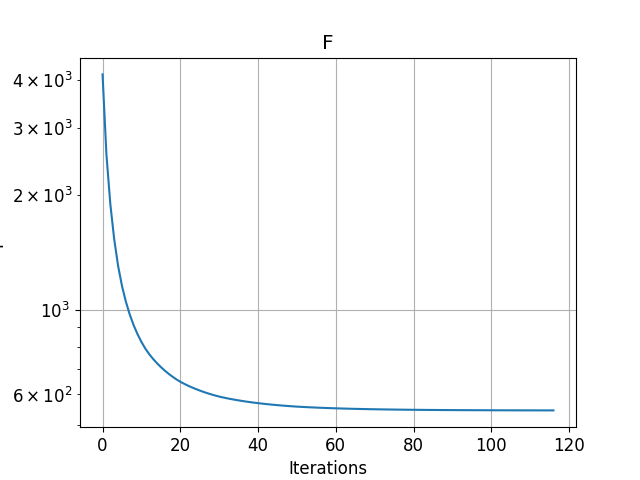
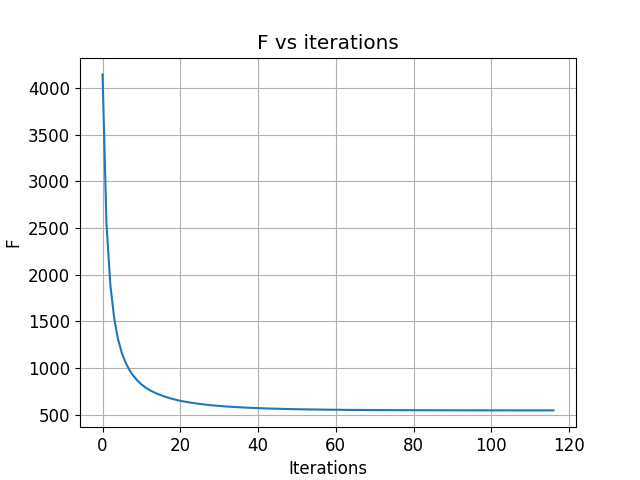
.

diff --git a/MTF073/T1/Martin_codeFunctions.py b/MTF073/T1/Martin_codeFunctions.py
@@ -466,7 +466,7 @@ def correctBoundaries(T,
 
 def calcNormalizedResiduals(res, glob_imbal_plot,
                             nI, nJ, explCorrIter, T, \
-                            aP, aE, aW, aN, aS, Su, Sp, F_data=1):
+                            aP, aE, aW, aN, aS, Su, Sp, F_data=1, T_data=1):
     # Calculate and print normalized residuals, and sane 
     # Only change arrays in first row of argument list!
     # Normalize as shown in lecture notes, using:
@@ -559,6 +559,11 @@ def calcNormalizedResiduals(res, glob_imbal_plot,
     # Calculate the global imbalance
     glob_imbal = abs((Din - Dout + Sin - Sout)/(Din + Sin))
     glob_imbal_plot.append(glob_imbal)
+    
+    i_selected = 10
+    j_selected = 10
+    T_value = T[i_selected, j_selected]
+    T_data.append(T_value)
 
     
 def createDefaultPlots(
@@ -737,7 +742,7 @@ def createDefaultPlots(
 
 def createAdditionalPlots(nI, nJ, pointX, pointY, nodeX, nodeY,
                        L, H, T, k,
-                       explCorrIter, res, glob_imbal_plot, caseID, F_data):
+                       explCorrIter, res, glob_imbal_plot, caseID, F_data, T_data):
     # ADD CODE HERE IF NECESSARY
     # Also add needed arguments to the function - and then also add those
     # arguments for the same function in the main code.
@@ -750,13 +755,27 @@ def createAdditionalPlots(nI, nJ, pointX, pointY, nodeX, nodeY,
     """
     # Plot F
     plt.figure()
-    plt.title('F')
+    plt.title('F vs iterations')
     plt.xlabel('Iterations')
     plt.ylabel('F')
     resLength = np.arange(0,len(res),1)
     plt.plot(resLength, F_data)
     plt.grid()
-    plt.yscale('log')
+    # plt.yscale('log')
     plt.savefig('Figures/Case_'+str(caseID)+'_FConvergence_results.png')
     plt.show()
+    
+    # Plot T
+    plt.figure()
+    plt.title('Temperature vs iterations')
+    plt.xlabel('Iterations')
+    plt.ylabel('T')
+    resLength = np.arange(0,len(res),1)
+    plt.plot(resLength, T_data)
+    plt.grid()
+    # plt.yscale('log')
+    plt.savefig('Figures/Case_'+str(caseID)+'_TemperatureConvergence_results.png')
+    plt.show()
+    
+    
 #%%

diff --git a/MTF073/T1/Martin_Task_1_codefunctions.py b/MTF073/T1/Martin_Task_1_codefunctions.py
@@ -89,6 +89,7 @@ res    = []                    # Array for appending residual each iteration
 glob_imbal_plot    = []        # Array for appending glob_imbalance each iteration
 
 F_data = [] # Array for appending F each iteration
+T_data = [] # Array for appending T each iteration
 
 # Set mesh point positions
 match mesh_type:
@@ -163,7 +164,7 @@ for explCorrIter in range(nExplCorrIter):
     # Calculate and print normalized residuals
     cF.calcNormalizedResiduals(res, glob_imbal_plot,
                                nI, nJ, explCorrIter, T,
-                               aP, aE, aW, aN, aS, Su, Sp, F_data)
+                               aP, aE, aW, aN, aS, Su, Sp, F_data, T_data)
     
     # Stop iterations if converged
     if res[-1] < resTol:
@@ -187,6 +188,6 @@ cF.createDefaultPlots(
 # No arrays should be changed!
 cF.createAdditionalPlots(nI, nJ, pointX, pointY, nodeX, nodeY,
                        L, H, T, k,
-                       explCorrIter, res, glob_imbal_plot, caseID, F_data)
+                       explCorrIter, res, glob_imbal_plot, caseID, F_data, T_data)
 
 #%%
